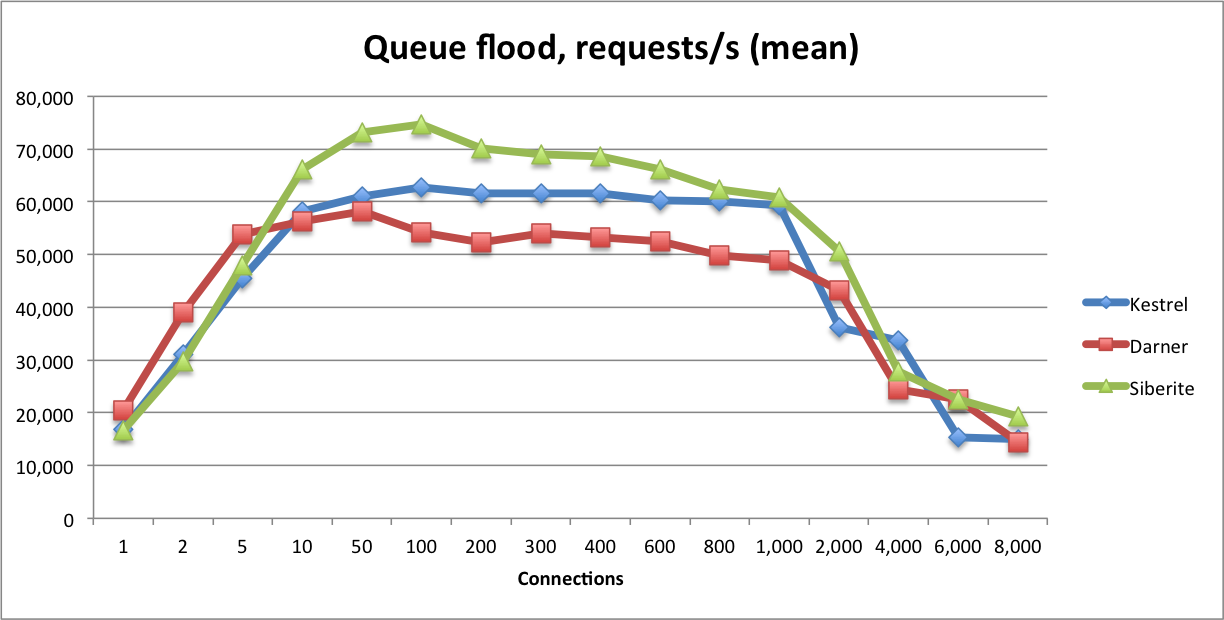
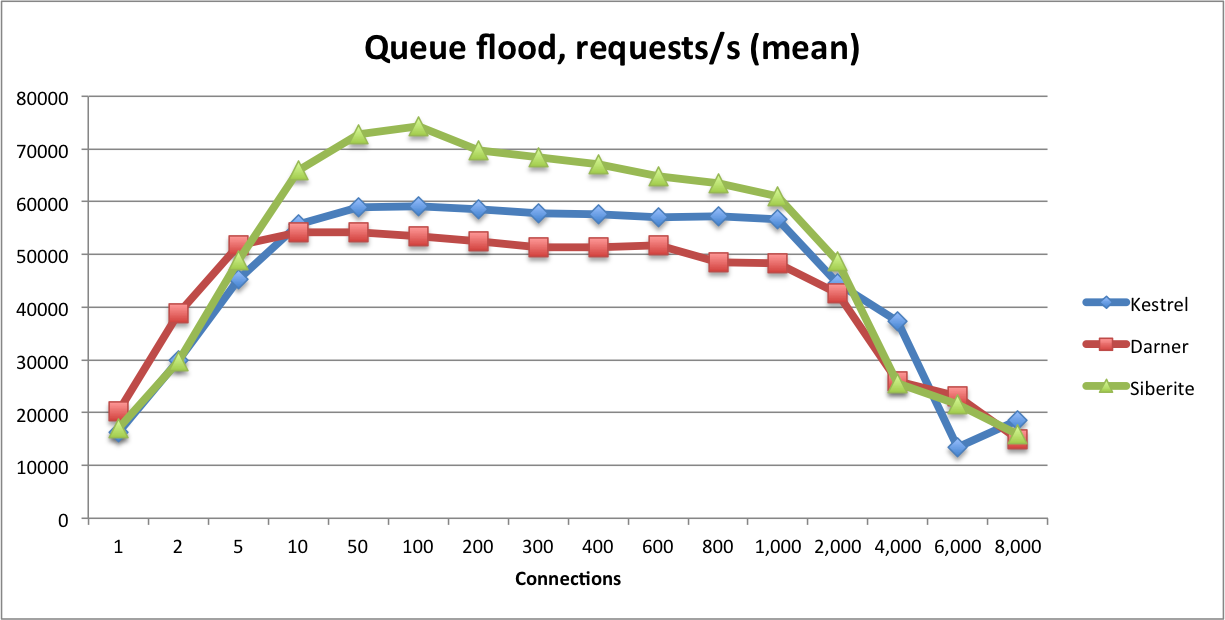
- Enable leveldb BlockCacher by default (improves performance)
- Update benchmarks
- Version bump to 0.4.2

diff --git a/queue/queue.go b/queue/queue.go
@@ -171,13 +171,8 @@ func (q *Queue) open() error {
 		return errors.New("Queue name is too long")
 	}
 
-	o := opt.Options{
-		BlockCacher:       opt.NoCacher,
-		DisableBlockCache: true,
-	}
-
 	var err error
-	q.db, err = leveldb.OpenFile(q.Path(), &o)
+	q.db, err = leveldb.OpenFile(q.Path(), &opt.Options{})
 	if err != nil {
 		return err
 	}

diff --git a/repository/repository.go b/repository/repository.go
@@ -13,7 +13,7 @@ import (
 )
 
 // Version represents siberite version
-const Version = "siberite-0.4.1"
+const Version = "siberite-0.4.2"
 
 // QueueRepository represents a repository of queues
 type QueueRepository struct {

diff --git a/docs/benchmarks.md b/docs/benchmarks.md
@@ -3,7 +3,7 @@ Benchmark Details:
 * OS X Yosemite 10.10.5
 * Kestrel 2.4.8, Java 1.6.0_65, -Xmx1024m
 * Darner 0.2.5 [Innometrics/darner](https://github.com/Innometrics/darner) built with RocksDB
-* Siberite 0.4
+* Siberite 0.4.2
 
 # Resident Memory
 
@@ -39,17 +39,17 @@ darner    131072 requests: 49060 kB
 darner    262024 requests: 50764 kB
 darner    524048 requests: 54112 kB
 
-siberite         0 requests: 3352 kB
-siberite      1024 requests: 10508 kB
-siberite      2048 requests: 12672 kB
-siberite      4096 requests: 20472 kB
-siberite      8192 requests: 23504 kB
-siberite     16384 requests: 25908 kB
-siberite     32768 requests: 29360 kB
-siberite     65536 requests: 37652 kB
-siberite    131072 requests: 48356 kB
-siberite    262024 requests: 74724 kB
-siberite    524048 requests: 74788 kB
+siberite         0 requests: 2420 kB
+siberite      1024 requests: 10084 kB
+siberite      2048 requests: 12324 kB
+siberite      4096 requests: 20064 kB
+siberite      8192 requests: 36932 kB
+siberite     16384 requests: 45400 kB
+siberite     32768 requests: 50612 kB
+siberite     65536 requests: 58412 kB
+siberite    131072 requests: 65208 kB
+siberite    262024 requests: 81800 kB
+siberite    524048 requests: 87360 kB
 ```
 
 # Queue Flooding
@@ -61,56 +61,56 @@ How quickly can we flood items through 10 queues?  This tests the raw throughput
 ```
 $ ./flood.sh
 warming up kestrel...done.
-kestrel      1 conns: 16807.879854 (ops/s mean)
-kestrel      2 conns: 31177.408391
-kestrel      5 conns: 45585.286014
-kestrel     10 conns: 58226.020907
-kestrel     50 conns: 61077.076049
-kestrel    100 conns: 62672.071079
-kestrel    200 conns: 61559.587967
-kestrel    300 conns: 61625.581672
-kestrel    400 conns: 61602.083759
-kestrel    600 conns: 60304.539948
-kestrel    800 conns: 60008.272035
-kestrel   1000 conns: 59328.929184
-kestrel   2000 conns: 36193.558029
-kestrel   4000 conns: 33808.110691
-kestrel   6000 conns: 15335.226914
-kestrel   8000 conns: 15026.652097
+kestrel      1 conns: 16375 (requests/s mean)
+kestrel      2 conns: 30039
+kestrel      5 conns: 45235
+kestrel     10 conns: 55656
+kestrel     50 conns: 58945
+kestrel    100 conns: 59103
+kestrel    200 conns: 58564
+kestrel    300 conns: 57807
+kestrel    400 conns: 57621
+kestrel    600 conns: 57065
+kestrel    800 conns: 57273
+kestrel   1000 conns: 56685
+kestrel   2000 conns: 44625
+kestrel   4000 conns: 37366
+kestrel   6000 conns: 13404
+kestrel   8000 conns: 18523
 
-darner       1 conns: 20485.164610
-darner       2 conns: 39084.504255
-darner       5 conns: 53805.902578
-darner      10 conns: 56233.919391
-darner      50 conns: 58144.865233
-darner     100 conns: 54192.627376
-darner     200 conns: 52301.009202
-darner     300 conns: 53942.452802
-darner     400 conns: 53321.372943
-darner     600 conns: 52564.547239
-darner     800 conns: 49931.330399
-darner    1000 conns: 48939.109464
-darner    2000 conns: 43240.382904
-darner    4000 conns: 24467.149941
-darner    6000 conns: 22490.386543
-darner    8000 conns: 14474.205194
+darner       1 conns: 20375
+darner       2 conns: 38828
+darner       5 conns: 51813
+darner      10 conns: 54161
+darner      50 conns: 54177
+darner     100 conns: 53461
+darner     200 conns: 52483
+darner     300 conns: 51443
+darner     400 conns: 51400
+darner     600 conns: 51803
+darner     800 conns: 48456
+darner    1000 conns: 48253
+darner    2000 conns: 42728
+darner    4000 conns: 26062
+darner    6000 conns: 23156
+darner    8000 conns: 15040
 
-siberite       1 conns: 16685.785422
-siberite       2 conns: 29680.072714
-siberite       5 conns: 48004.527781
-siberite      10 conns: 66177.472140
-siberite      50 conns: 73205.980482
-siberite     100 conns: 74767.933948
-siberite     200 conns: 70195.272648
-siberite     300 conns: 68949.940311
-siberite     400 conns: 68624.760247
-siberite     600 conns: 66170.498654
-siberite     800 conns: 62391.969673
-siberite    1000 conns: 60788.384543
-siberite    2000 conns: 50584.645539
-siberite    4000 conns: 27876.874830
-siberite    6000 conns: 22633.264009
-siberite    8000 conns: 19387.906547
+siberite       1 conns: 16982
+siberite       2 conns: 29770
+siberite       5 conns: 48896
+siberite      10 conns: 65952
+siberite      50 conns: 72798
+siberite     100 conns: 74385
+siberite     200 conns: 69777
+siberite     300 conns: 68507
+siberite     400 conns: 67018
+siberite     600 conns: 64851
+siberite     800 conns: 63509
+siberite    1000 conns: 61003
+siberite    2000 conns: 48766
+siberite    4000 conns: 25512
+siberite    6000 conns: 21621
+siberite    8000 conns: 15876
 ```
 
 # Queue Packing (1024 byte message size)
@@ -125,32 +125,32 @@ free memory.  Instead it's important for the throughput to flatten out as the ba
 ```
 $ ./packing.sh
 warming up kestrel...done.
-kestrel        0 sets: 15052.481901
-kestrel     1024 sets: 15525.517448
-kestrel    16384 sets: 15377.189029
-kestrel    65536 sets: 14683.953159
-kestrel   262144 sets: 14147.473998
-kestrel  1048576 sets: 14099.458784
-kestrel  4194304 sets: 14893.911809
-kestrel  8388608 sets: 14831.780153
+kestrel        0 sets: 15052
+kestrel     1024 sets: 15525
+kestrel    16384 sets: 15377
+kestrel    65536 sets: 14683
+kestrel   262144 sets: 14147
+kestrel  1048576 sets: 14099
+kestrel  4194304 sets: 14893
+kestrel  8388608 sets: 14831
 
-darner        0 sets: 19459.351790
-darner     1024 sets: 18821.834508
-darner    16384 sets: 16667.949078
-darner    65536 sets: 16206.286265
-darner   262144 sets: 16551.859558
-darner  1048576 sets: 15245.079659
-darner  4194304 sets: 14875.396451
-darner  8388608 sets: 14750.351526
+darner        0 sets: 19459
+darner     1024 sets: 18821
+darner    16384 sets: 16667
+darner    65536 sets: 16206
+darner   262144 sets: 16551
+darner  1048576 sets: 15245
+darner  4194304 sets: 14875
+darner  8388608 sets: 14750
 
-siberite        0 sets: 16009.303237
-siberite     1024 sets: 15615.363126
-siberite    16384 sets: 14026.486300
-siberite    65536 sets: 12975.689809
-siberite   262144 sets: 11783.504995
-siberite  1048576 sets: 10107.638889
-siberite  4194304 sets: 10036.420823
-siberite  8388608 sets: 9868.384511
+siberite        0 sets: 15466
+siberite     1024 sets: 15583
+siberite    16384 sets: 14077
+siberite    65536 sets: 12898
+siberite   262144 sets: 12180
+siberite  1048576 sets: 11310
+siberite  4194304 sets: 11287
+siberite  8388608 sets: 11373
 ```
 
 # Queue Packing and Unpacking (64 byte message size)
@@ -215,28 +215,28 @@ darner | items:   44272468 | speed:    18028 ops/s
 darner | items:   22136234 | speed:    17244 ops/s
 darner | items:          0 | speed:    20864 ops/s
 
-siberite | items:          0 | speed:    16946 ops/s
-siberite | items:       1024 | speed:    16875 ops/s
-siberite | items:      17408 | speed:    16393 ops/s
-siberite | items:      82944 | speed:    15279 ops/s
-siberite | items:     345088 | speed:    15083 ops/s
-siberite | items:    1393664 | speed:    14756 ops/s
-siberite | items:    5587968 | speed:    14020 ops/s
-siberite | items:   13976576 | speed:    14729 ops/s
-siberite | items:   30753792 | speed:    14204 ops/s
-siberite | items:   64308224 | speed:    14552 ops/s
-siberite | items:  131417088 | speed:    12908 ops/s
-siberite | items:  265634816 | speed:    13490 ops/s
-siberite | items:  243498574 | speed:    14021 ops/s
-siberite | items:  221362340 | speed:    14382 ops/s
-siberite | items:  199226106 | speed:    14438 ops/s
-siberite | items:  177089872 | speed:    13233 ops/s
-siberite | items:  154953638 | speed:    14254 ops/s
-siberite | items:  132817404 | speed:    14904 ops/s
-siberite | items:  110681170 | speed:    14793 ops/s
-siberite | items:   88544936 | speed:    14720 ops/s
-siberite | items:   66408702 | speed:    14968 ops/s
-siberite | items:   44272468 | speed:    14872 ops/s
-siberite | items:   22136234 | speed:    14757 ops/s
-siberite | items:          0 | speed:    16968 ops/s
+siberite | items:          0 | speed:    14768 ops/s
+siberite | items:       1024 | speed:    15391 ops/s
+siberite | items:      17408 | speed:    15076 ops/s
+siberite | items:      82944 | speed:    15687 ops/s
+siberite | items:     345088 | speed:    15776 ops/s
+siberite | items:    1393664 | speed:    14984 ops/s
+siberite | items:    5587968 | speed:    15207 ops/s
+siberite | items:   13976576 | speed:    15121 ops/s
+siberite | items:   30753792 | speed:    14596 ops/s
+siberite | items:   64308224 | speed:    15309 ops/s
+siberite | items:  131417088 | speed:    13376 ops/s
+siberite | items:  265634816 | speed:    14628 ops/s
+siberite | items:  243498574 | speed:    14704 ops/s
+siberite | items:  221362340 | speed:    15243 ops/s
+siberite | items:  199226106 | speed:    15157 ops/s
+siberite | items:  177089872 | speed:    15086 ops/s
+siberite | items:  154953638 | speed:    15086 ops/s
+siberite | items:  132817404 | speed:    14033 ops/s
+siberite | items:  110681170 | speed:    15070 ops/s
+siberite | items:   88544936 | speed:    14226 ops/s
+siberite | items:   66408702 | speed:    14343 ops/s
+siberite | items:   44272468 | speed:    14517 ops/s
+siberite | items:   22136234 | speed:    13788 ops/s
+siberite | items:          0 | speed:    14602 ops/s
 ```

diff --git a/README.md b/README.md
@@ -33,7 +33,7 @@ We used to use Darner before, but got 2 large production queues corrupted at som
 
 ## Build
 
-Make sure your `GOROOT` and `GOPATH` are correct
+Make sure your `GOPATH` is correct
 
 ```
 go get github.com/bogdanovich/siberite

diff --git a/CHANGELOG.md b/CHANGELOG.md
@@ -1,3 +1,7 @@
+## 0.4.2
+
+- Enable leveldb BlockCacher (improves performance)
+
 ## 0.4.1
 
 - Fix repository.GetQueue returns error without lock release
